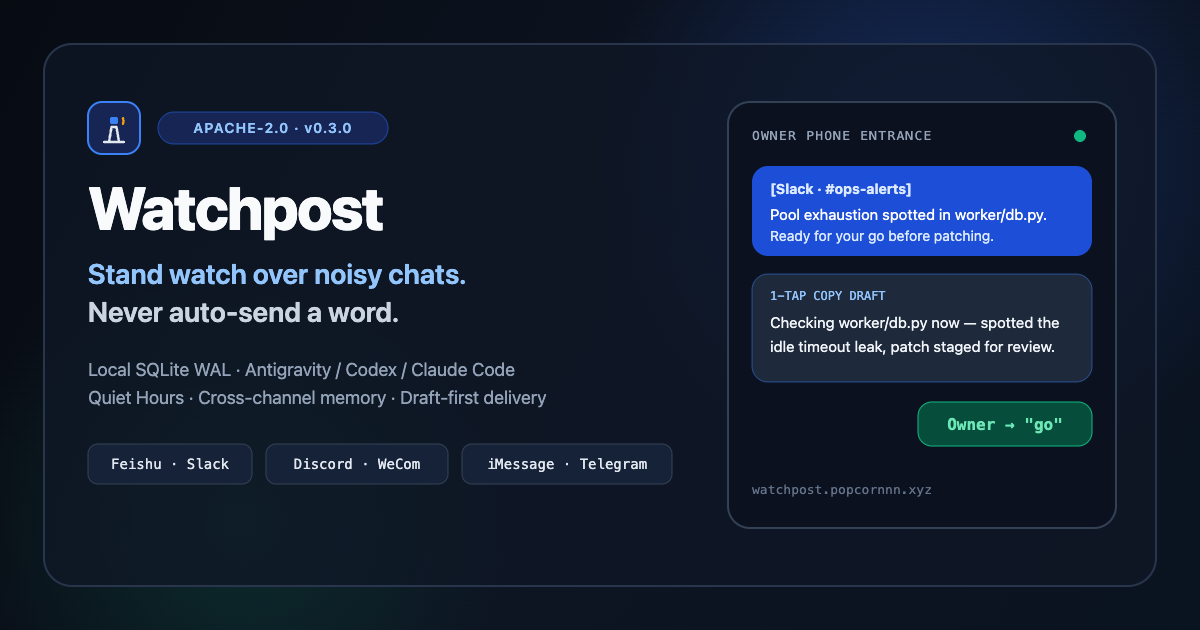
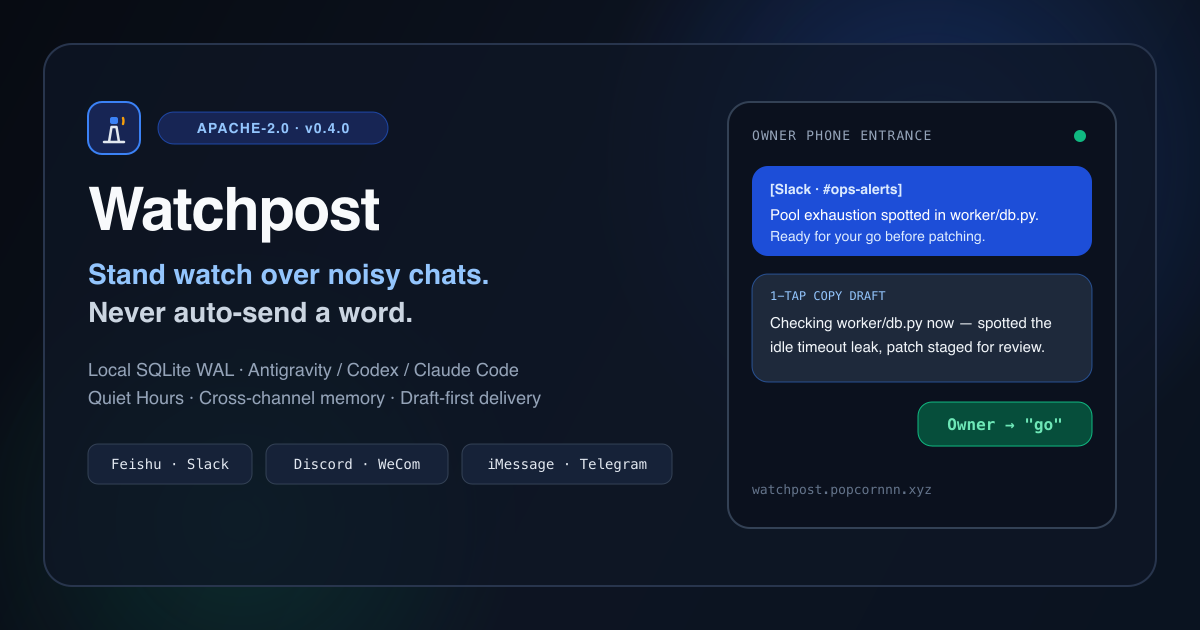
docs: refresh v0.4.0 OG card, add sandbox UI screenshot and README badges

diff --git a/README.md b/README.md
@@ -1,9 +1,17 @@
 # Watchpost (`watchpost-agent`)
 
+[![CI](https://github.com/Popcornnnnnnnn/watchpost/actions/workflows/ci.yml/badge.svg)](https://github.com/Popcornnnnnnnn/watchpost/actions/workflows/ci.yml)
+[![Release](https://img.shields.io/github/v/release/Popcornnnnnnnn/watchpost)](https://github.com/Popcornnnnnnnn/watchpost/releases/latest)
+[![License: Apache-2.0](https://img.shields.io/badge/license-Apache--2.0-blue)](https://github.com/Popcornnnnnnnn/watchpost/blob/main/LICENSE)
+[![Python 3.11+](https://img.shields.io/badge/python-3.11%2B-blue)](https://www.python.org/downloads/)
+[![Website](https://img.shields.io/badge/website-watchpost.popcornnn.xyz-0f172a)](https://watchpost.popcornnn.xyz)
+
 **Website:** [watchpost.popcornnn.xyz](https://watchpost.popcornnn.xyz)
 
 **Headless local background bridge for your coding agent (`Apache-2.0`).**
 Watches selected chat channels, runs local triage + your coding agent (`Antigravity`, `Codex`, `Claude Code`, `Gemini CLI`, with automatic primary→backup failover), and delivers concise diagnoses and **1-tap-copy draft replies** strictly to your phone or DM—never auto-sending to external senders.
+
+![Watchpost overview](site/assets/og-watchpost.png)
 
 ## How It Works
 
@@ -32,6 +40,12 @@ flowchart LR
 - **Hardened Control API & Isolated `webhook_port`:** Local control routes on `--api-port 8787` enforce a `0o600` Bearer token (`~/.local/share/watchpost/api.token`), loopback `Host` allowlist, and browser `Origin` blocking. Expose an optional separate `webhook_port` (e.g., `8788`) for public reverse tunnels so `/api/*` control routes stay local-only.
 - **10 Native Integrations + Out-of-Process Plugin SDK:** Built-in support for **Feishu / Lark**, **Slack**, **Discord**, **Telegram** (outbound + shared-hub inbound), **DingTalk**, **WeCom (企业微信)**, **macOS iMessage**, **ntfy**, **Bark**, and **Pushover**, plus a clean-room WhatsApp stdio SDK template ([`examples/whatsapp_plugin_template.py`](https://github.com/Popcornnnnnnnn/watchpost/blob/main/examples/whatsapp_plugin_template.py)).
 - **Background Service & Reliability Controls:** Single-instance `watchpost.lock`, token-scoped Telegram polling with `409`/`429` backoff, secret redaction across logs/HTTP errors, periodic media pruning, and `watchpost service install|status|uninstall` (`launchd` / `systemd --user`).
+
+## Interactive Sandbox Preview
+
+Run `watchpost sandbox-ui --backend mock` to test colleague chats, read-only diagnosis, 1-tap drafts, and `go` approvals locally.
+
+![Watchpost 2-column sandbox simulator](docs/assets/sandbox-demo.png)
 
 ## Quickstart (5-Minute Onboarding)
 
